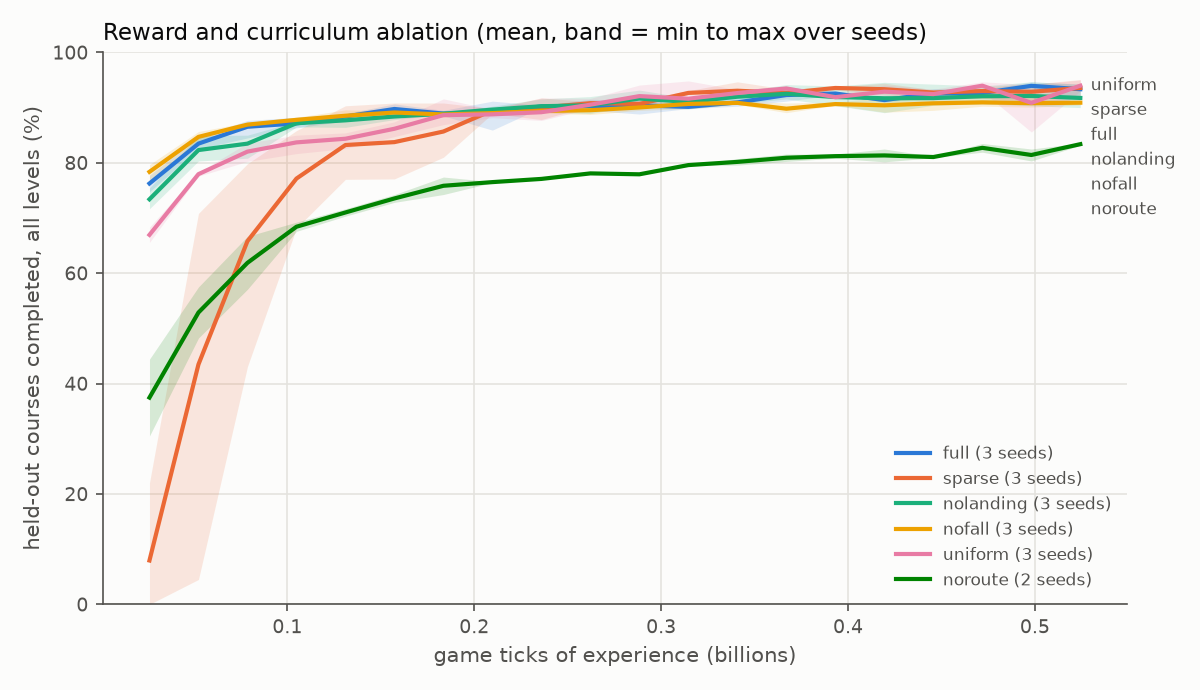
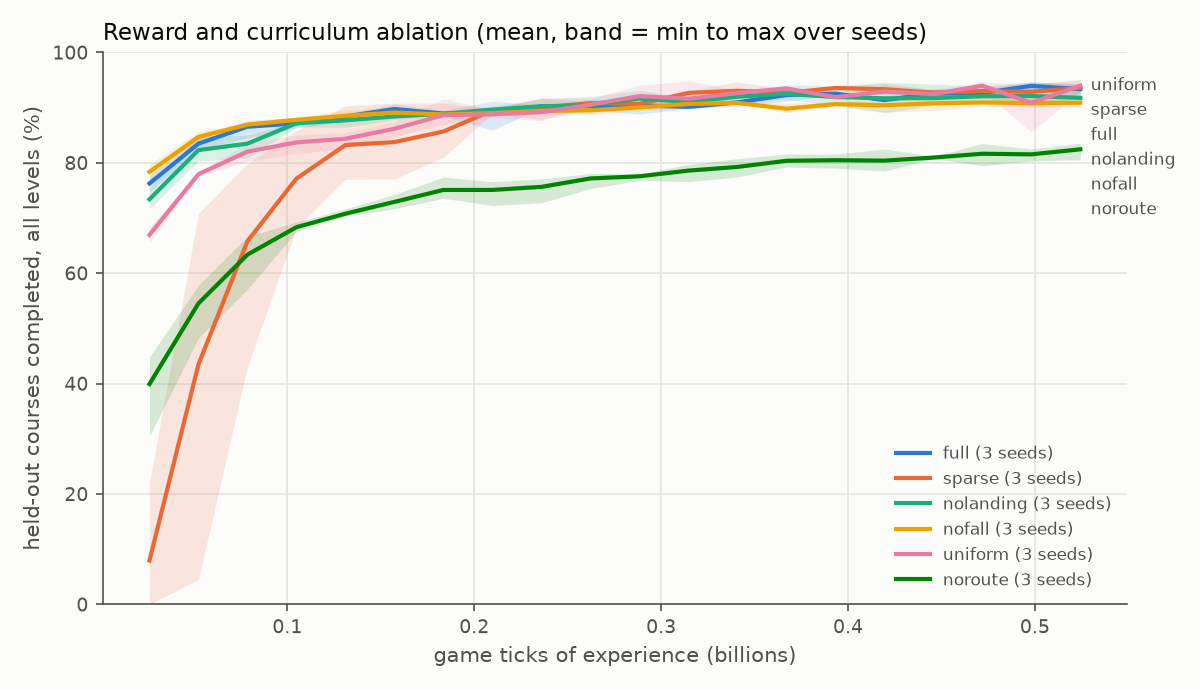
No-route results with three seeds; start final-v2

diff --git a/results/README.md b/results/README.md
@@ -27,7 +27,7 @@ seed 0 is the first 1000 iterations of the main run (identical settings).
 | nolanding | no landing bonus | 3 | 91.8 (90.0-94.2) | 95.0 | 59.5 (47.0-74.5) | 89.0 | 0.05 |
 | nofall | no fall penalty | 3 | 90.9 (90.5-91.2) | 94.5 | 55.2 (54.0-57.0) | 88.9 | 0.05 |
 | uniform | no curriculum (levels uniform) | 3 | 94.0 (93.0-95.0) | 97.0 | 72.0 (67.0-76.0) | 88.2 | 0.08 |
-| noroute | platform positions hidden: block scan + goal only | 2 | 83.4 (83.2-83.6) | 88.8 | 45.0 (42.5-47.5) | 74.1 | 0.35 |
+| noroute | platform positions hidden: block scan + goal only | 3 | 82.4 (80.6-83.6) | 86.8 | 43.0 (39.0-47.5) | 73.8 | 0.38 |
 
 ## Every jump type
 
@@ -54,8 +54,8 @@ reference is the `full` arm (defaults), mean over its seeds. All runs see 0.52 B
 | Run | Iteration | Validation success | Test success | L4 | L5 |
 | --- | --- | --- | --- | --- | --- |
 | defaults (`full`, 3 seeds) | 999 | - | 93.3 | 94.7 | 72.0 |
-| `hp-ent0.001` | 99 of 1000 (running) | 83.0 | 84.0 | 89.0 | 20.0 |
-| `hp-ent0.02` | 99 of 1000 (running) | 72.7 | 82.6 | 88.0 | 19.0 |
+| `hp-ent0.001` | 149 of 1000 (running) | 84.5 | 85.8 | 90.0 | 29.0 |
+| `hp-ent0.02` | 149 of 1000 (running) | 83.2 | 84.8 | 86.0 | 29.0 |
 
 ## Course styles outside the training distribution
 

diff --git a/TEAM_STATUS.md b/TEAM_STATUS.md
@@ -35,7 +35,7 @@ and the `codex/*` branches.
   the final score; the *landing bonus* and the *curriculum* show no reliable
   effect at this budget.
 - **Without being told the route** (only the blocks around it and the goal
-  direction) the agent still completes 83% of test courses.
+  direction) the agent still completes 82% of test courses (3 seeds).
 - **3D replays:** open `results/replay_viewer.html` in a browser (123 courses).
 
 ## How we know the simulator is right
@@ -49,7 +49,8 @@ largest difference 1.4e-14 blocks over 99,000 ticks. `run.cmd test` runs this.
 - The hyperparameter study (`configs/sweep_hparams.json`): entropy, discount,
   network size, KL target and number of environments, one at a time, compared
   on the validation set. Results appear in `results/README.md`.
-- The third no-route seed.
+- `final-v2`: obstacles from the start and a lower learning-rate ceiling
+  (3e-4) to remove the last training dip; 3,000 iterations.
 
 ## Waiting on the PC owner
 

diff --git a/docs/report_draft.md b/docs/report_draft.md
@@ -232,9 +232,10 @@ block tends to overshoot.
 ### 7.6 Is the route needed?
 
 With the platform corners hidden (only its own state, the 98-point block
-scan and the goal direction), the agent still completes 83.4% of test courses
-(2 of 3 seeds so far; level 5: 45%), against 93.3% with the route at the same
-budget. It needs about seven times as many ticks to reach 80%. The scan sees
+scan and the goal direction), the agent still completes 82.4% of test courses
+(3 seeds, 80.6-83.6%; level 5: 43%), against 93.3% with the route at the same
+budget. It needs about seven times as many ticks to reach 80% (0.38 against
+0.05 billion). The scan sees
 5.5 blocks ahead and 1.5 to each side, so after a turn the next platform is
 often outside it.
 
